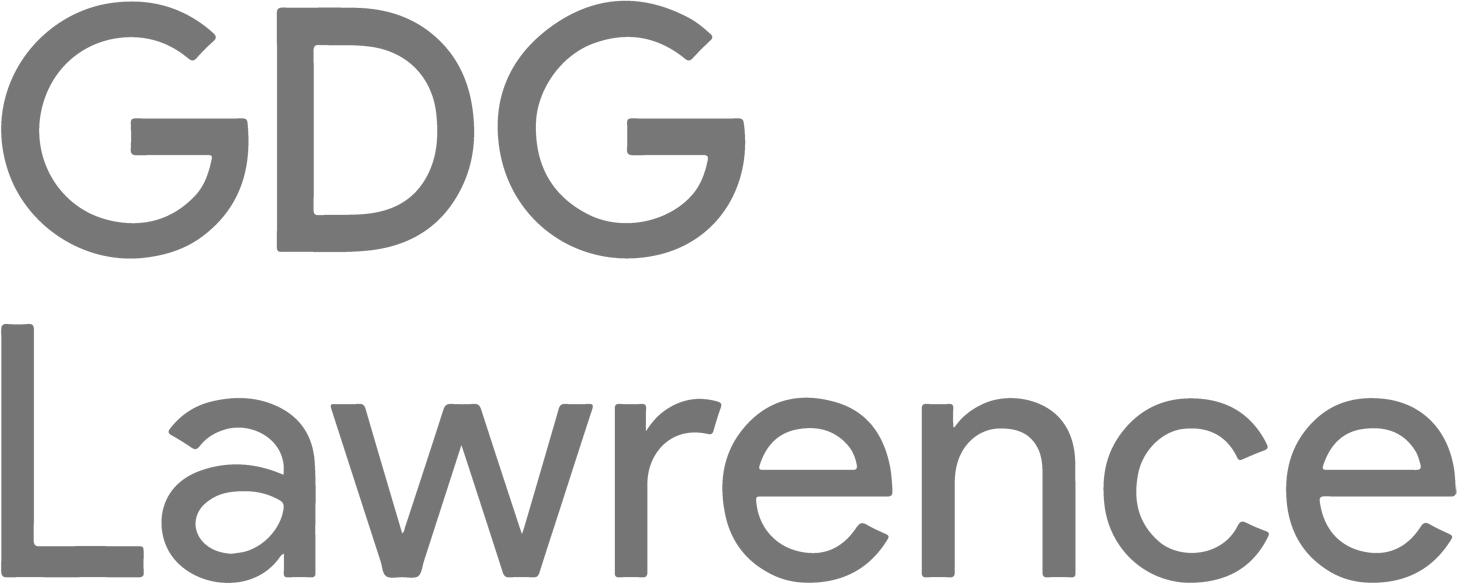
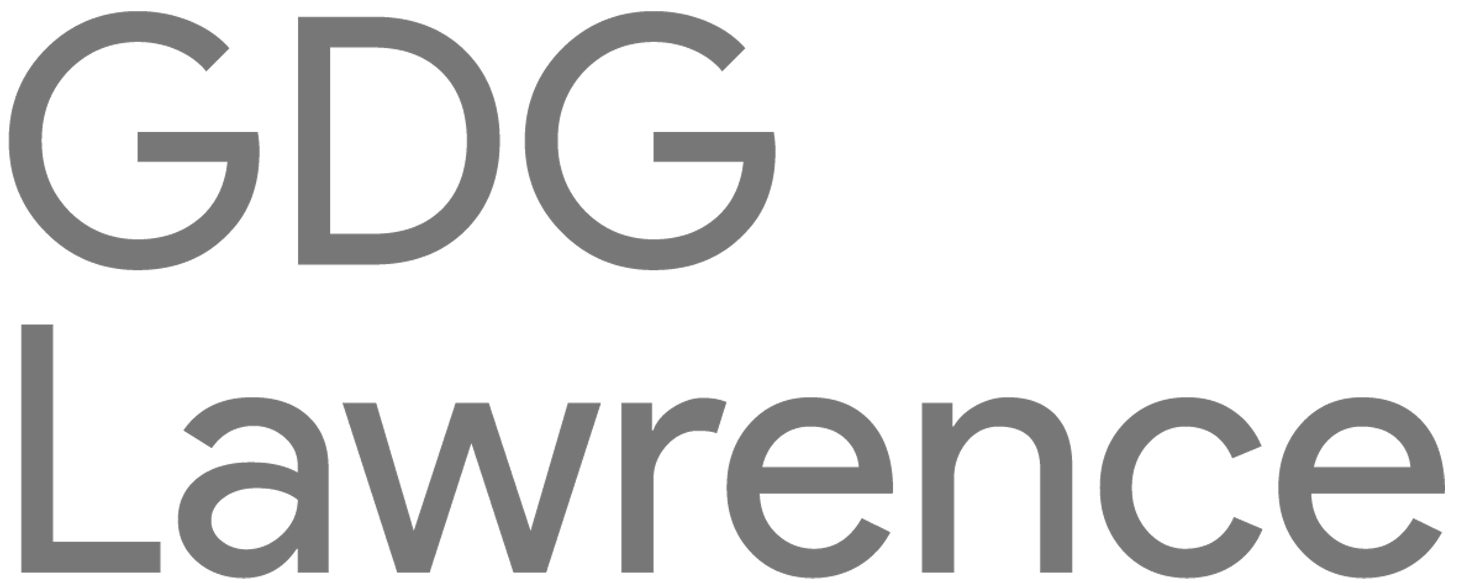
updates to the app, for 2.0 release

diff --git a/lib/pages/splash_page.dart b/lib/pages/splash_page.dart
@@ -32,14 +32,23 @@ class SplashPage extends StatelessWidget {
           Center(
             child: Column(
               mainAxisAlignment: MainAxisAlignment.center,
+              crossAxisAlignment: CrossAxisAlignment.center,
               children: <Widget>[
-                Image.asset('assets/gdg_logo.png', width: 120.0),
-                Padding(
-                  padding: EdgeInsets.only(top: 10),
-                  child: Image.asset('assets/gdg_just_text.png', width: 150.0)
+                Container(
+                  margin:EdgeInsets.only(top: 100),
+                  child: Row(
+                    crossAxisAlignment: CrossAxisAlignment.center,
+                    mainAxisAlignment: MainAxisAlignment.center,
+                    children: <Widget>[
+                    Image.asset('assets/gdg_logo.png', width: 120.0),
+                    Padding(
+                      padding: EdgeInsets.only(left: 10),
+                      child: Image.asset('assets/gdg_just_text.png', width: 150.0)
+                    )
+                  ]),
                 ),
                 Padding(
-                  padding: EdgeInsets.only(top: 50),
+                  padding: EdgeInsets.only(top: 30),
                   child: SpinningControl(
                     color1: Utils.googleBlue,
                     color2: Utils.googleGreen,

diff --git a/lib/pages/home_page.dart b/lib/pages/home_page.dart
@@ -46,7 +46,7 @@ class HomePage extends StatelessWidget {
             Row(
               mainAxisAlignment: MainAxisAlignment.center,
               children: <Widget>[
-                Image.asset('assets/gdg_logo.png', width: 50),
+                Image.asset('assets/gdg_logo.png', width: 100),
                 Padding(
                   padding: EdgeInsets.only(left: 15),
                   child: Image.asset('assets/gdg_just_text.png', width: 120),
